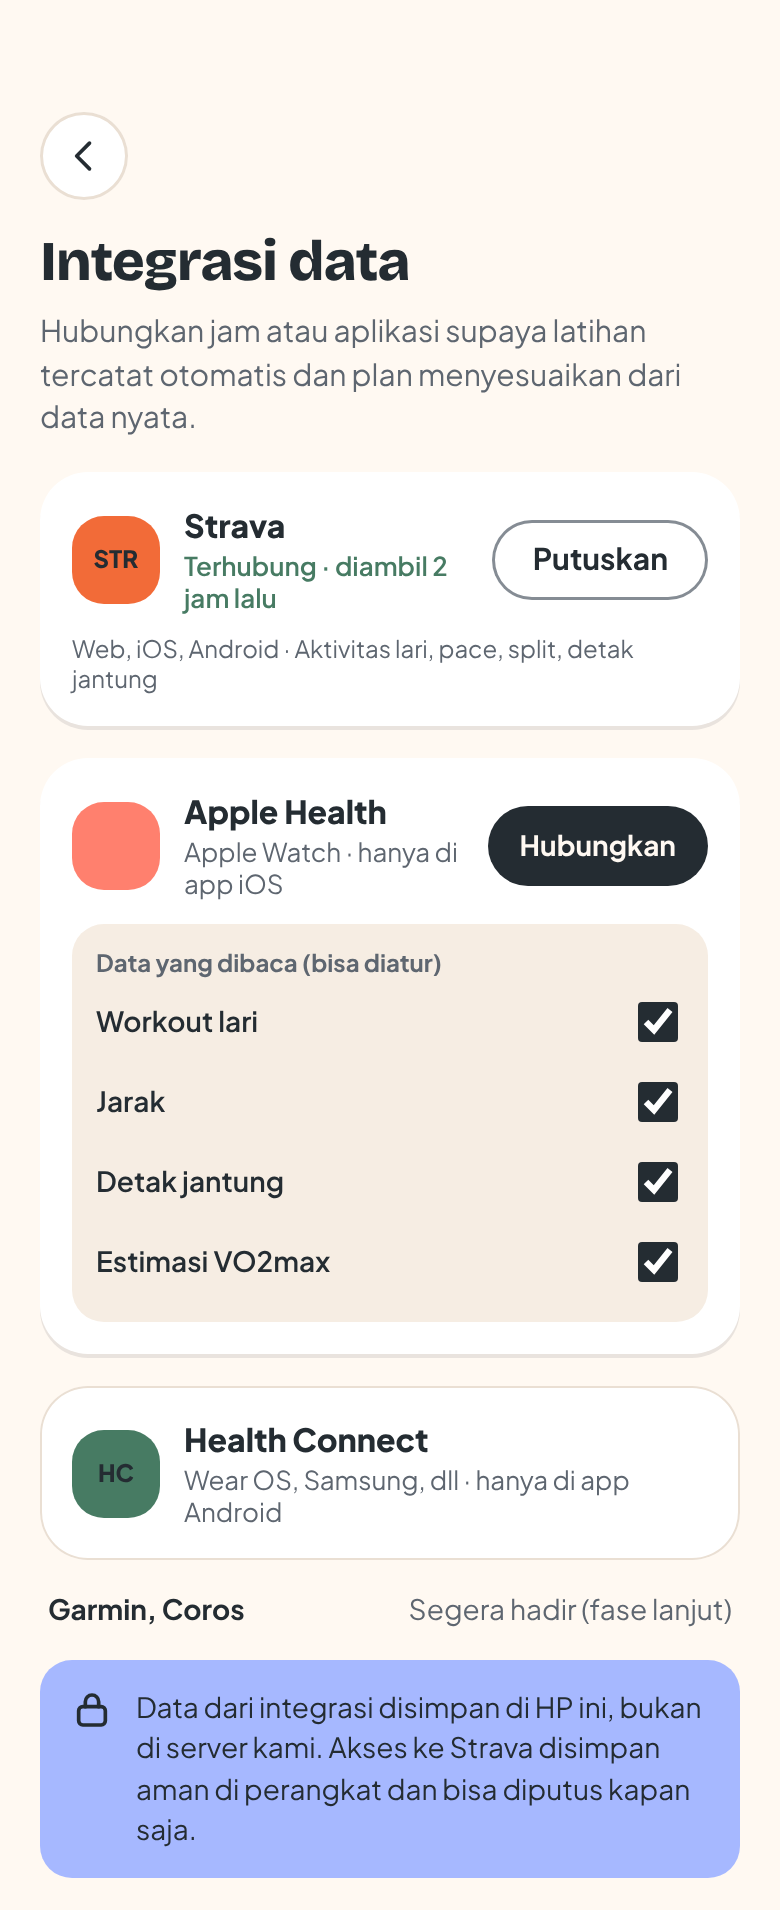
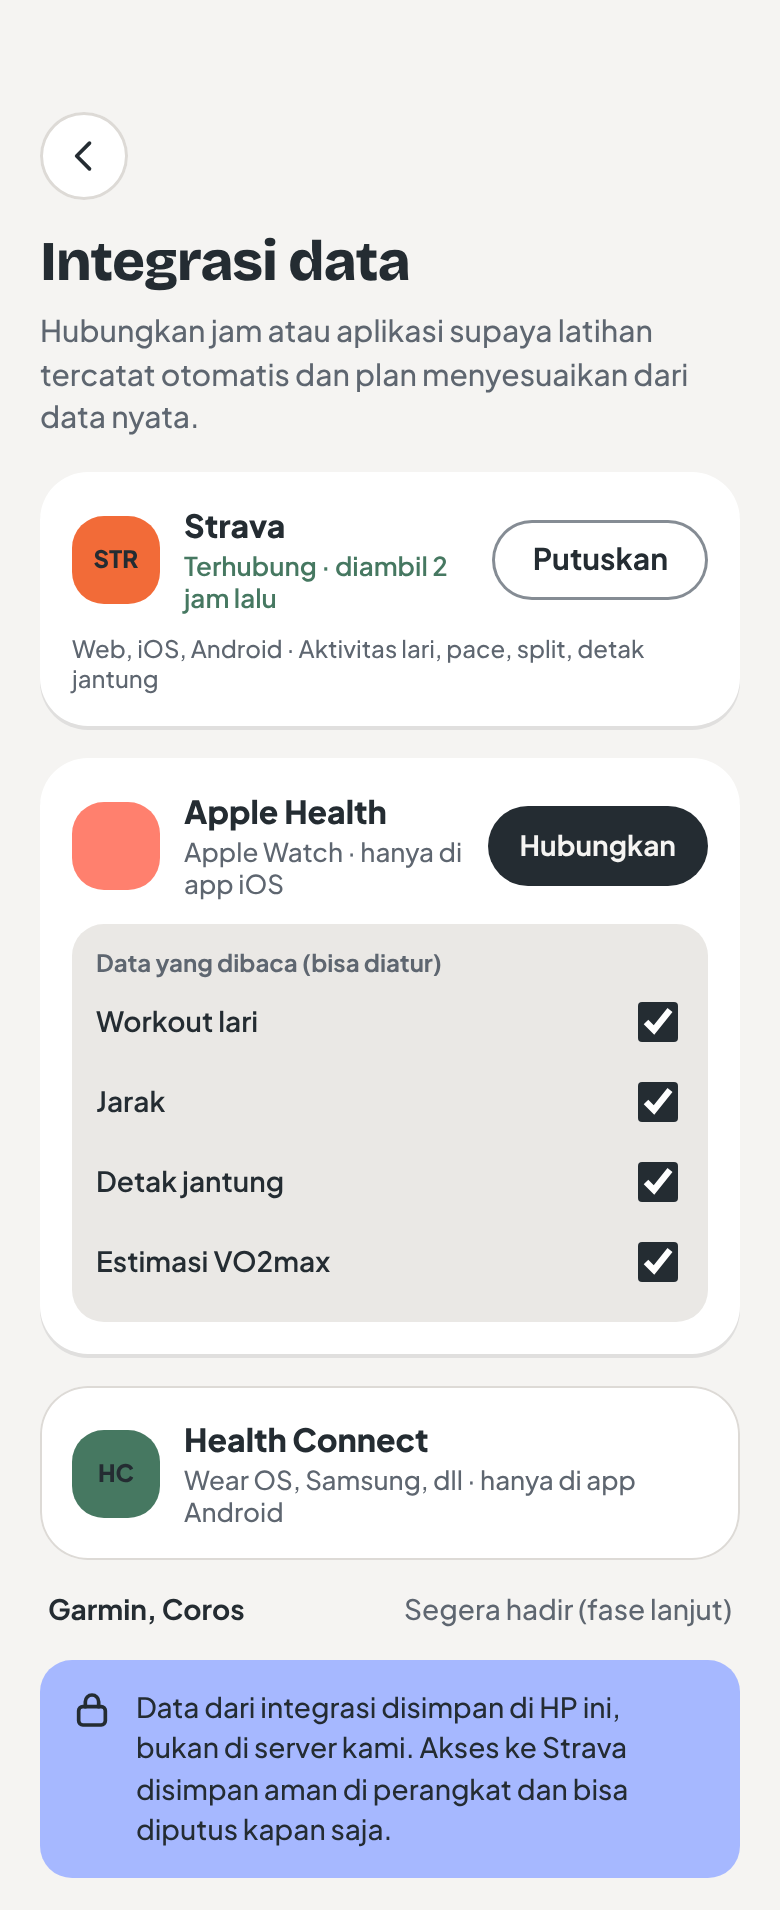
Switch light background from cream to warm gray
- bg #F5F4F2 (new palette.stone), surface-sunken #EAE8E5, line #DDDAD6
- primary-ink #C63F0D, accent-ink #AD5527, success #467861: slightly
  darker so text stays >= 4.5:1 on the new bg (check_contrast 39/39)
- Dark theme (timer) unchanged
- Design system tokens 0.2.0, wireframe token copy, UI/UX spec, splash
  background, wireframe README v0.4
- All 26 wireframe PNGs and overview re-rendered

Claude-Session: https://claude.ai/code/session_0117N1BZ4m3V1dUudCWSwWLw

diff --git a/docs/wireframes/source/ds/lintas/tokens.css b/docs/wireframes/source/ds/lintas/tokens.css
@@ -1,19 +1,19 @@
 :root, [data-theme="light"] {
-  --bg: #FFF9F2;
+  --bg: #F5F4F2;
   --surface: #FFFFFF;
-  --surface-sunken: #F6EDE3;
+  --surface-sunken: #EAE8E5;
   --text: #242C32;
   --text-muted: #5E6670;
-  --line: #EADFD3;
+  --line: #DDDAD6;
   --line-strong: #858C94;
   --primary: #F26B38;
   --on-primary: #242C32;
-  --primary-ink: #CB410D;
+  --primary-ink: #C63F0D;
   --accent: #E9B79D;
-  --accent-ink: #B35828;
-  --success: #477B63;
+  --accent-ink: #AD5527;
+  --success: #467861;
   --on-success: #FFFFFF;
-  --success-ink: #477B63;
+  --success-ink: #467861;
   --focus-ring: #242C32;
   --status-on-track: #70D6B3;
   --status-on-track-ink: #247F60;

diff --git a/docs/wireframes/README.md b/docs/wireframes/README.md
@@ -1,6 +1,6 @@
 # Wireframes: Run Coach
 
-Status: v0.3 (2026-10-29), memakai design system Lintas. Salinan dari artifact wireframe (https://claude.ai/artifact/69xQ9s7SxafNVUKL2vWxka).
+Status: v0.4 (2026-10-29), memakai design system Lintas (latar abu-abu hangat). Salinan dari artifact wireframe (https://claude.ai/artifact/69xQ9s7SxafNVUKL2vWxka).
 
 - **26 layar HP** (lebar 390) dalam 4 journey. Nomor layar dipakai di semua dokumen `docs/specs/`.
 - Warna, tipe dan bentuk sudah memakai Lintas (`source/ds/lintas/`, salinan dari `docs/design-system/`). Layar memakai variabel token (`var(--primary)`), tidak ada hex lepas.
@@ -39,6 +39,13 @@ Status: v0.3 (2026-10-29), memakai design system Lintas. Salinan dari artifact w
 | 4.5 | Data & privasi | [png](png/4-5-data-privasi.png) | F-13, F-18, F-19 |
 | 4.6 | Hapus akun | [png](png/4-6-hapus-akun.png) | F-10 |
 
+## Yang berubah di v0.4
+
+| Perubahan | Layar |
+|-----------|-------|
+| Latar krem diganti abu-abu hangat `#F5F4F2` (+ `surface-sunken` `#EAE8E5`, `line` `#DDDAD6`); `primary-ink`, `accent-ink`, `success` sedikit digelapkan agar kontras tetap >= 4.5:1 | Semua |
+| Kartu "Kenapa plan ini?" (alasan + label tingkat bukti + Lihat sumber, spec 07). Contoh grafik volume patuh TRD 4.2: naik maks 10%, cutback minggu 4 dan 8, taper 10K 1 minggu turun 50% | 1.8 |
+
 ## Yang berubah di v0.3
 
 | Perubahan | Layar |
@@ -48,7 +55,6 @@ Status: v0.3 (2026-10-29), memakai design system Lintas. Salinan dari artifact w
 | Latihan contoh hari ini memakai drill ABC (F-17): 10 + 8 + 14 + 10 = 42 menit | 2.1, 2.2, 2.3, 2.3b, 2.4, 3.1 |
 | Layar yang dulu belum ada (O1, O4): log manual, login email, hapus akun, segmen drill | 1.9, 2.3b, 2.6, 4.6 |
 | Status sinkron Strava di 2.1 diganti tautan "Catat lari manual" | 2.1 |
-| Kartu "Kenapa plan ini?" (alasan + label tingkat bukti + Lihat sumber, spec 07). Contoh grafik volume dibuat patuh TRD 4.2: naik maks 10%, cutback minggu 4 dan 8, taper 10K 1 minggu turun 50% | 1.8 |
 
 ## Catatan membaca gambar
 

diff --git a/docs/design-system/README.md b/docs/design-system/README.md
@@ -17,7 +17,7 @@ Tampilan visual (warna, tipe, 11 komponen dalam tema terang dan gelap): artifact
 | 1 | **Intensitas = panas** | Zona latihan memakai satu skala hangat: recovery lavender (sejuk), easy peach, long peach tua, tempo oranye, interval bara | Sekali lihat tahu seberapa berat. Kecerahan menurun berurutan, jadi tetap terbaca oleh buta warna. Cocok dengan konteks lari pagi di iklim panas |
 | 2 | **Bentuk lintasan** | Tombol dan chip berbentuk stadium; progres memakai cincin **oval lintasan** (2 lurus + 2 tikungan), bukan lingkaran; minggu digambar sebagai 7 lajur | Bentuk ikonik lari, tetap kontrol standar (tombol tetap tombol) |
 | 3 | **Label bib** | Tipe latihan ditulis seperti nomor dada race: kotak, huruf kapital rapat, 4 titik peniti di sudut | Membedakan tipe latihan dari tombol dan status. Dipakai hanya di kartu latihan, maksimal 1 per kartu |
-| 4 | **Kertas hangat + oranye** | Latar krem `#FFF9F2`, kartu putih dengan bayangan keras 2 px, tombol oranye dengan teks charcoal | Hangat dan beda dari app olahraga hitam/neon. Teks gelap di oranye lebih terbaca (4.68:1) daripada putih (3.03:1) |
+| 4 | **Abu-abu hangat + oranye** | Latar abu-abu hangat `#F5F4F2`, kartu putih dengan bayangan keras 2 px, tombol oranye dengan teks charcoal | Hangat dan beda dari app olahraga hitam/neon. Teks gelap di oranye lebih terbaca (4.68:1) daripada putih (3.03:1) |
 
 Tipografi juga jadi pembeda: **Bricolage Grotesque** (judul, angka) dan **Plus Jakarta Sans** (UI, buatan foundry Jakarta). Keduanya punya digit tabular (`tnum`, sudah diuji: lebar "1111" = "8888"), sehingga timer tidak bergoyang.
 

diff --git a/docs/specs/04-UI-UX.md b/docs/specs/04-UI-UX.md
@@ -26,7 +26,7 @@ Ringkasan isi (nilai lengkap di `tokens.json`):
 
 | Grup | Isi |
 |------|-----|
-| Warna dasar | bg krem #FFF9F2, surface putih, text charcoal #242C32, primary oranye #F26B38 (teks di atasnya charcoal), accent peach #E9B79D, success hijau #477B63 |
+| Warna dasar | bg abu-abu hangat #F5F4F2, surface putih, text charcoal #242C32, primary oranye #F26B38 (teks di atasnya charcoal), accent peach #E9B79D, success hijau #467861 |
 | Status plan | On track #70D6B3, Perhatian #F2C66D, Tertinggal #FF806E, Recovery #A6B8FF; masing-masing punya varian `-ink` untuk teks |
 | Zona (skala panas) | recovery lavender, easy peach, long #D9946F, tempo oranye, interval #B4361A, strength charcoal |
 | Fase | base peach, build peach tua, peak oranye, taper lavender |
@@ -70,7 +70,7 @@ Semua di `docs/design-system/assets/` (detail: README di folder itu). Di M1 disa
 | Aset | Pakai |
 |------|-------|
 | Logo mark + wordmark "run coach" | 1.1, header web |
-| `icon.png`, `adaptive-icon.png` (+ monochrome), `splash-icon.png`, `favicon.png` | `app.json`: icon, adaptiveIcon (latar #F26B38), splash (latar #FFF9F2), web.favicon |
+| `icon.png`, `adaptive-icon.png` (+ monochrome), `splash-icon.png`, `favicon.png` | `app.json`: icon, adaptiveIcon (latar #F26B38), splash (latar #F5F4F2), web.favicon |
 | 40 ikon garis 24 px | Komponen Icon; tab bar: today, plan, progress, profile |
 | Karakter animasi gerakan | Belum ada (D8). MVP pakai teks + SVG prototipe |
 

diff --git a/docs/design-system/assets/README.md b/docs/design-system/assets/README.md
@@ -12,7 +12,7 @@ Logo, ikon app dan set ikon untuk Run Coach. Semua warna dari `../tokens.json`.
 | `app-icon/` | `icon.png` 1024x1024, RGB tanpa alpha | `expo.icon` (iOS + store) |
 | `app-icon/` | `adaptive-icon.png` (foreground transparan, mark di zona aman 66%) | `android.adaptiveIcon.foregroundImage`, `backgroundColor: "#F26B38"` |
 | `app-icon/` | `adaptive-monochrome.png` | `android.adaptiveIcon.monochromeImage` (ikon bertema Android 13+) |
-| `app-icon/` | `splash-icon.png` (transparan, mark oranye) | `expo-splash-screen`, `backgroundColor: "#FFF9F2"` |
+| `app-icon/` | `splash-icon.png` (transparan, mark oranye) | `expo-splash-screen`, `backgroundColor: "#F5F4F2"` |
 | `app-icon/` | `favicon.png` 48 px, `favicon.svg` | `web.favicon` |
 | `icons/` | 40 ikon garis 24 px + `icons.json` | Semua UI; lihat daftar di bawah |
 | `_build/` | `build.py`, `icons.py`, `render.js` | Membuat ulang semua file di atas |
